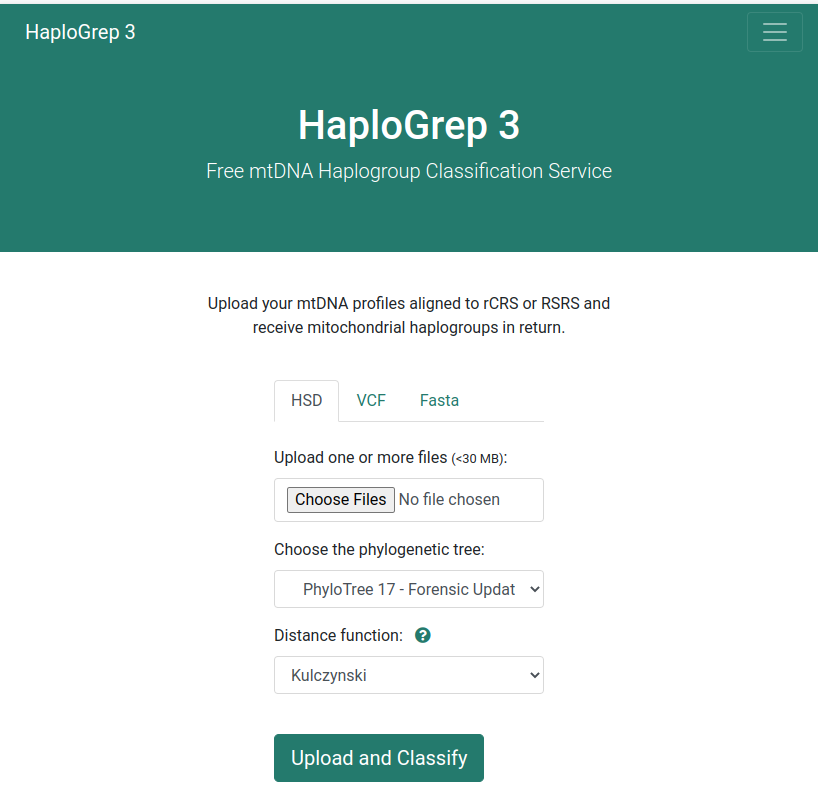
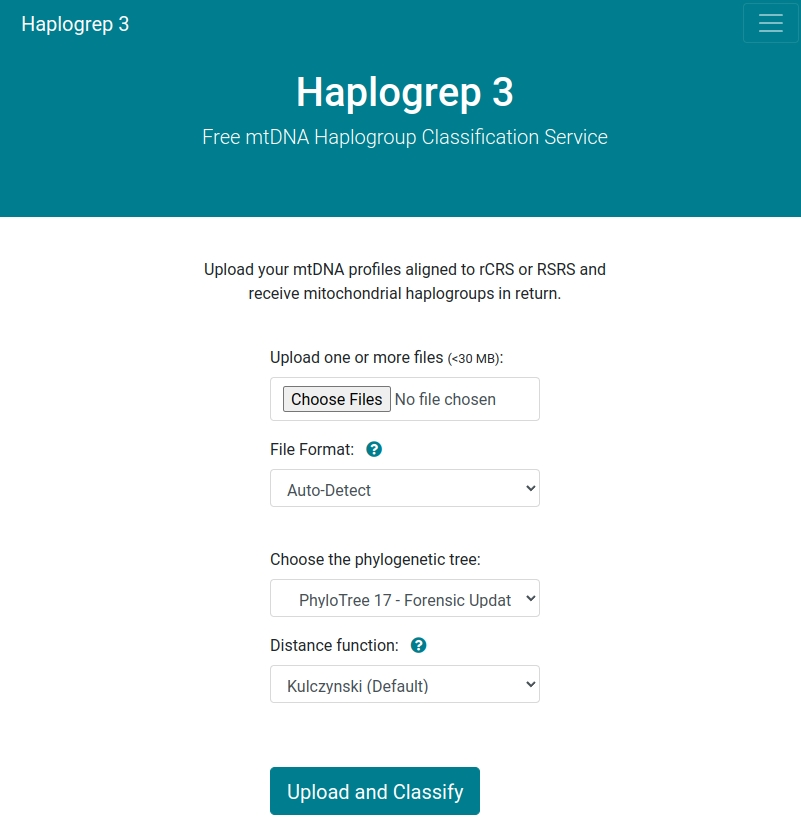
Add getting-started guide

diff --git a/docs/getting-started.md b/docs/getting-started.md
@@ -1,0 +1,32 @@
+# Getting Started
+
+This guide shows how to classify your data with the Haplogrep webservice.
+
+## Connect
+Open the [web service](https://haplogrep.i-med.ac.at/haplogrep3) which runs at the Medical University of Innsbruck. If you want to run Haplogrep locally, please you can find the installation [here](../installation).
+
+## Uploading Data
+After connecting to our web service instance, you see the following welcome screen. You can now upload your in **FASTA**, **VCF** or **text-based** format. Haplogrep detects the file format automatically. Please choose the according file format to add additional input options.
+Furthermore, you can select the distance function ([Kulczynski](../kulczynski), Hamming, Jaccard) and the used [phylogenetic tree](../trees).  
+
+![](images/interface/welcome_screen.png)
+
+## Classified Haplogroups
+After clicking **Upload and Classify** the data is classified and displayed directly in the web interface. Each line displays a sample including (a) name, (b) haplogroup, (c) quality, (d) number of N positions, (e) coverage, (f) range and (g) input mutations. You can click on each sample to get sample details.
+
+![](images/interface/data_classified.png)
+
+## Sample Details
+After clicking on one sample, a details view will open. In this view you will find all detected [Errors and Warnings](../errors-warnings), the expected / remaining mutations for the top hit haplogroup and the used ranges. Haplogrep calculates by default the top 20 hits for each sample. You will also see a list of further hits within the details view.
+
+![](images/interface/sample_details.png)
+
+## Sample Filtering
+Haplogrep allows to filter your samples according to their status. The screenshot below shows all samples including detected warning messages within the input dataset.  
+
+![](images/interface/data_filtered.png)
+
+## Export Options
+Haplogrep provides numerous export options. Currently you can export your data as a csv file, extended csv file including mutation details and data in fasta / MSA fasta format.
+
+![](images/interface/export_options.png)
